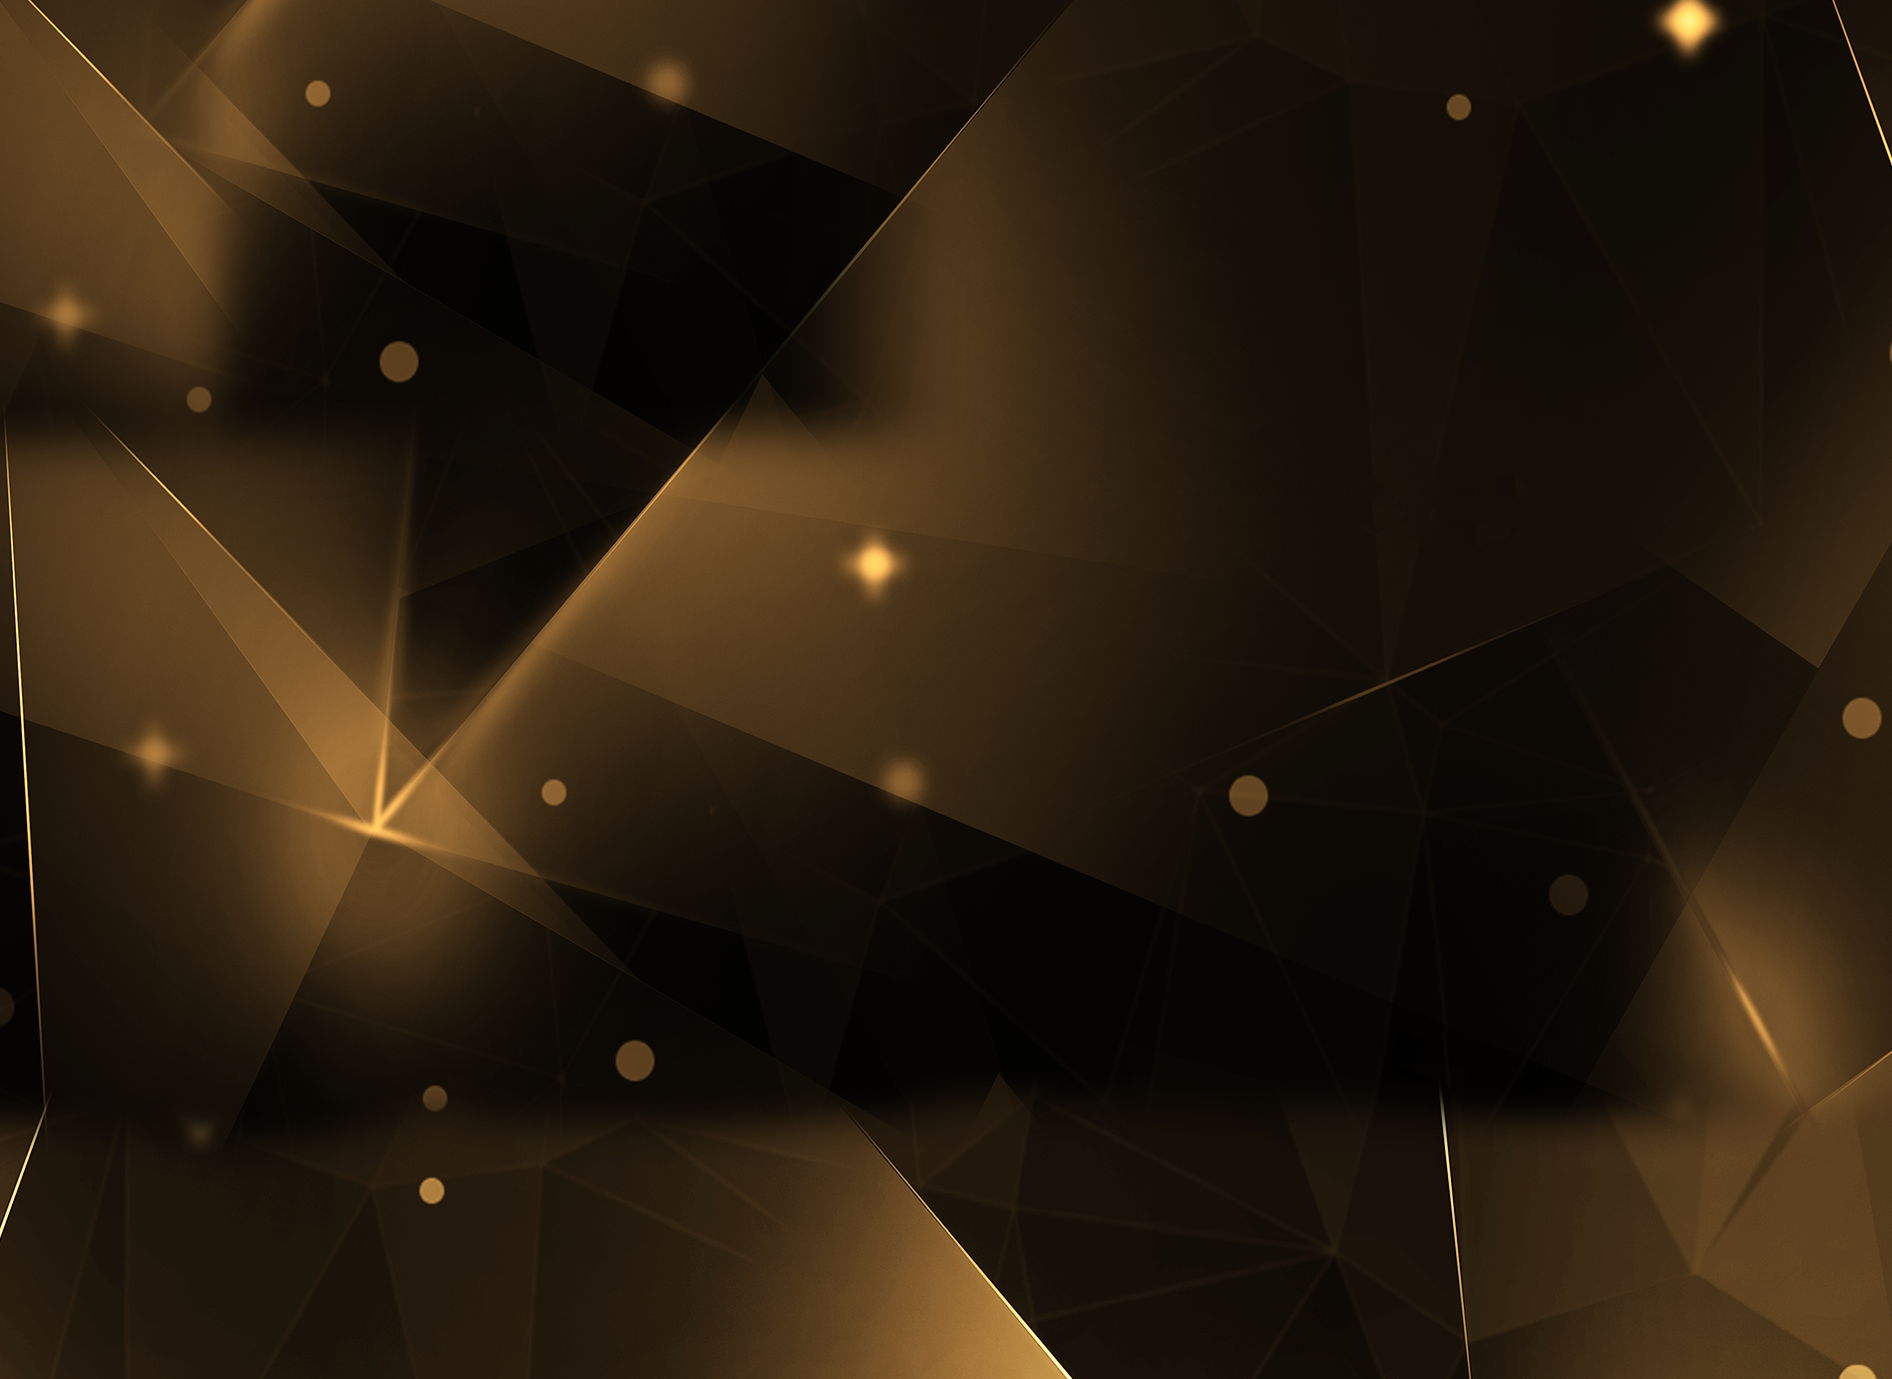
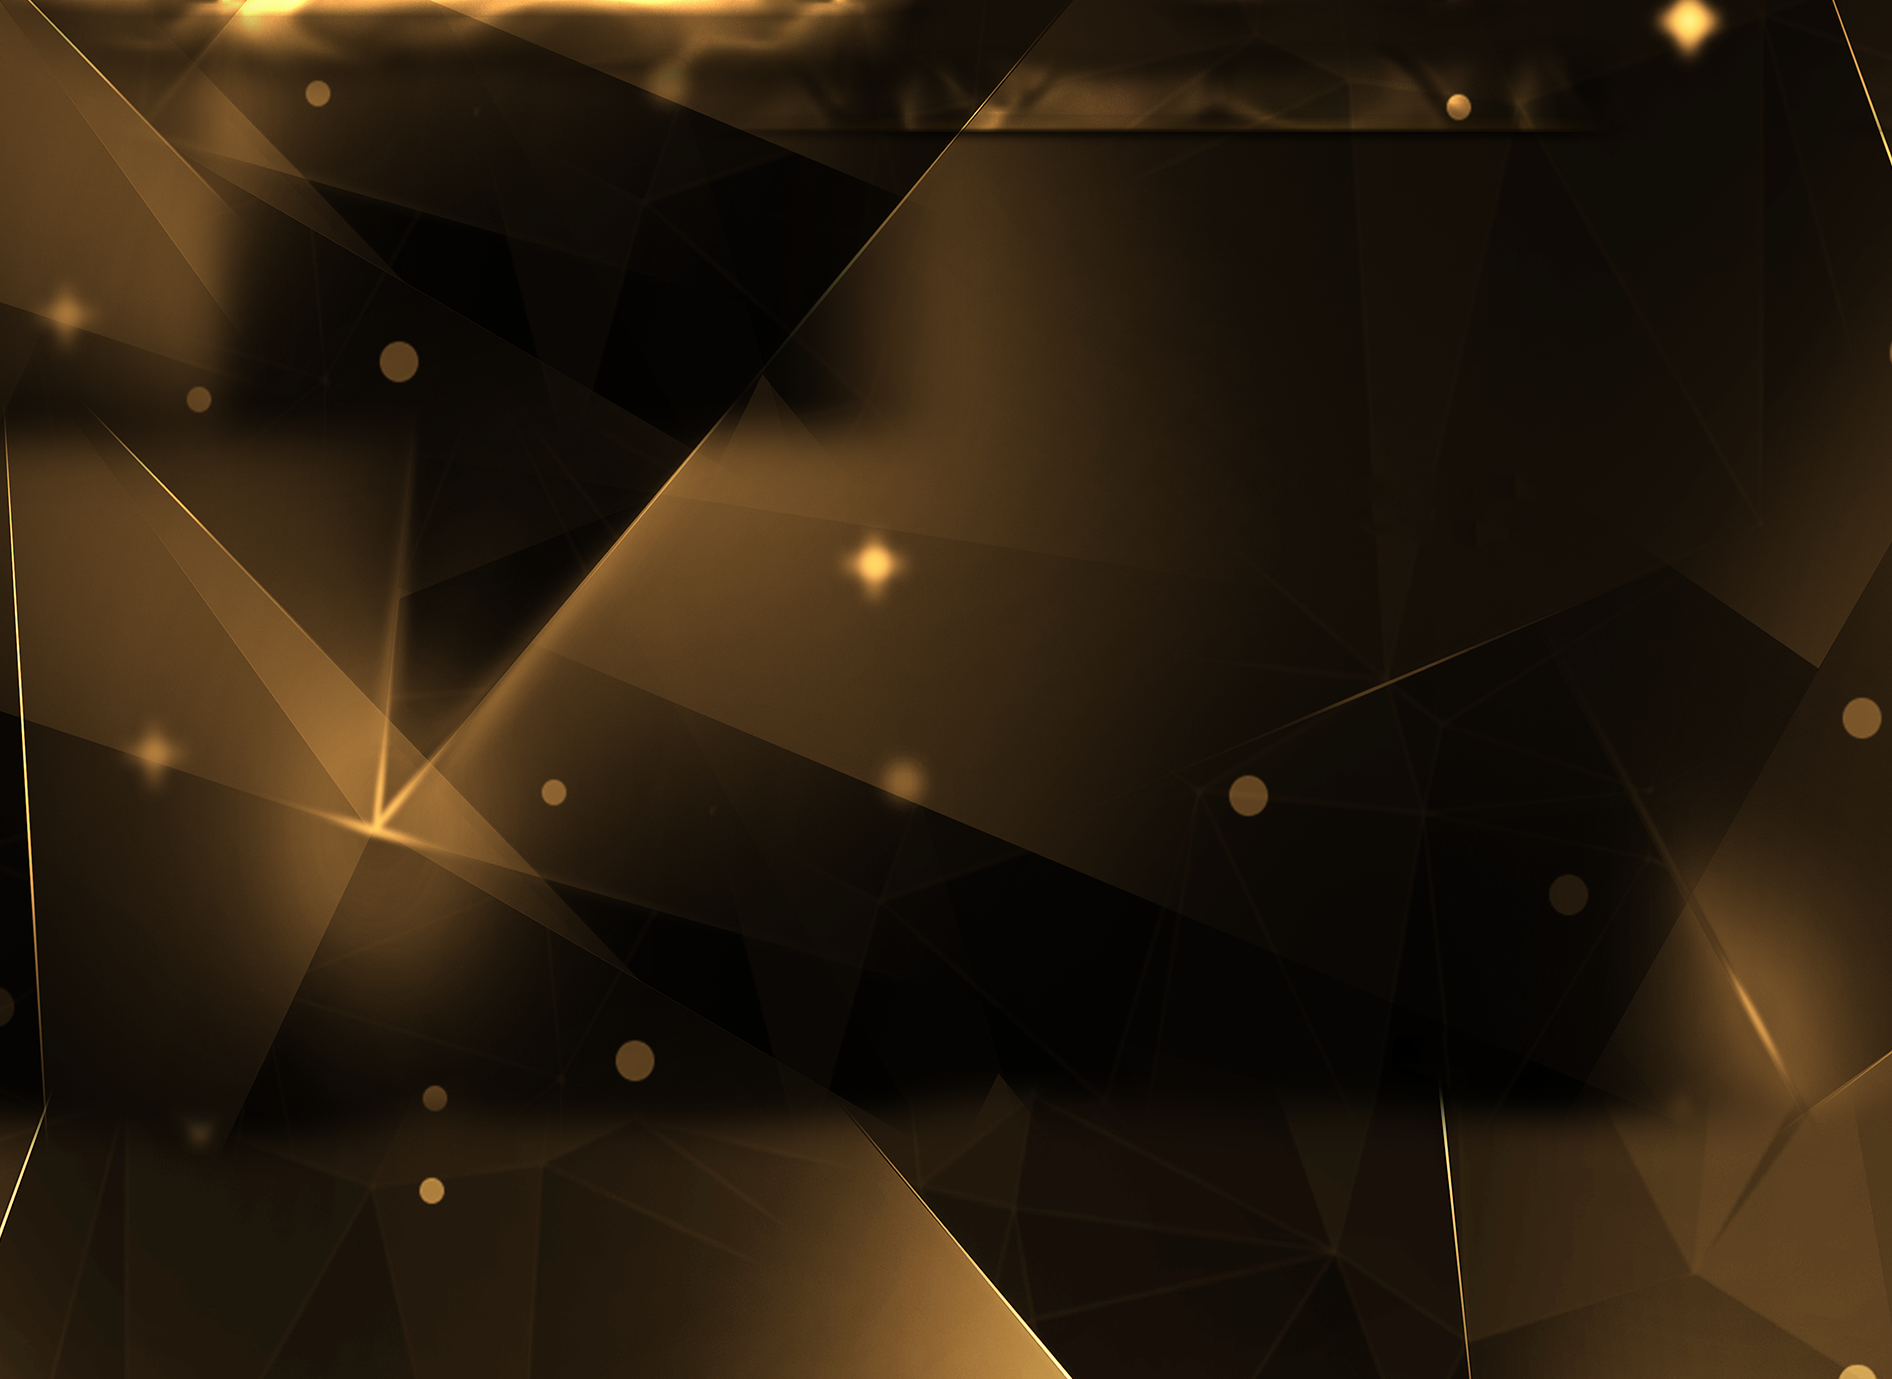
1

Changed region(s): [[0.0312, 0.0, 0.4678, 0.0624], [0.4678, 0.0312, 0.8108, 0.0935]]

diff --git a/scss/main.scss b/scss/main.scss
@@ -6,6 +6,24 @@ html body {
     // position: relative;
     background: #391a00;
 
+    header {
+        width: 100%;
+        height: 120px;
+        background: rgb(128, 180, 189);
+
+        .header-top-bg {
+            width: 100%;
+            height: 55px;
+            background: wheat;
+        }
+
+        .header-2 {
+            width: 100%;
+            height: 65px;
+            background: yellowgreen;
+        }
+    }
+
     .bg {
         width: 100%;
         height: 100%;

diff --git a/css/style.css b/css/style.css
@@ -56,6 +56,21 @@ html body {
   font-family: arial, "Microsoft JhengHei", "微軟正黑體", sans-serif !important;
   background: #391a00;
 }
+html body header {
+  width: 100%;
+  height: 120px;
+  background: #80b4bd;
+}
+html body header .header-top-bg {
+  width: 100%;
+  height: 55px;
+  background: wheat;
+}
+html body header .header-2 {
+  width: 100%;
+  height: 65px;
+  background: yellowgreen;
+}
 html body .bg {
   width: 100%;
   height: 100%;

diff --git a/index.html b/index.html
@@ -12,6 +12,12 @@
     <script src="https://code.jquery.com/jquery-3.6.0.min.js"></script>
 </head>
 <body>
+    <header>
+        <div class="header-1">
+            <div class="header-top-bg"></div>
+        </div>
+        <div class="header-2"></div>
+    </header>
     <div class="bg"></div>
 </body>
 </html>
